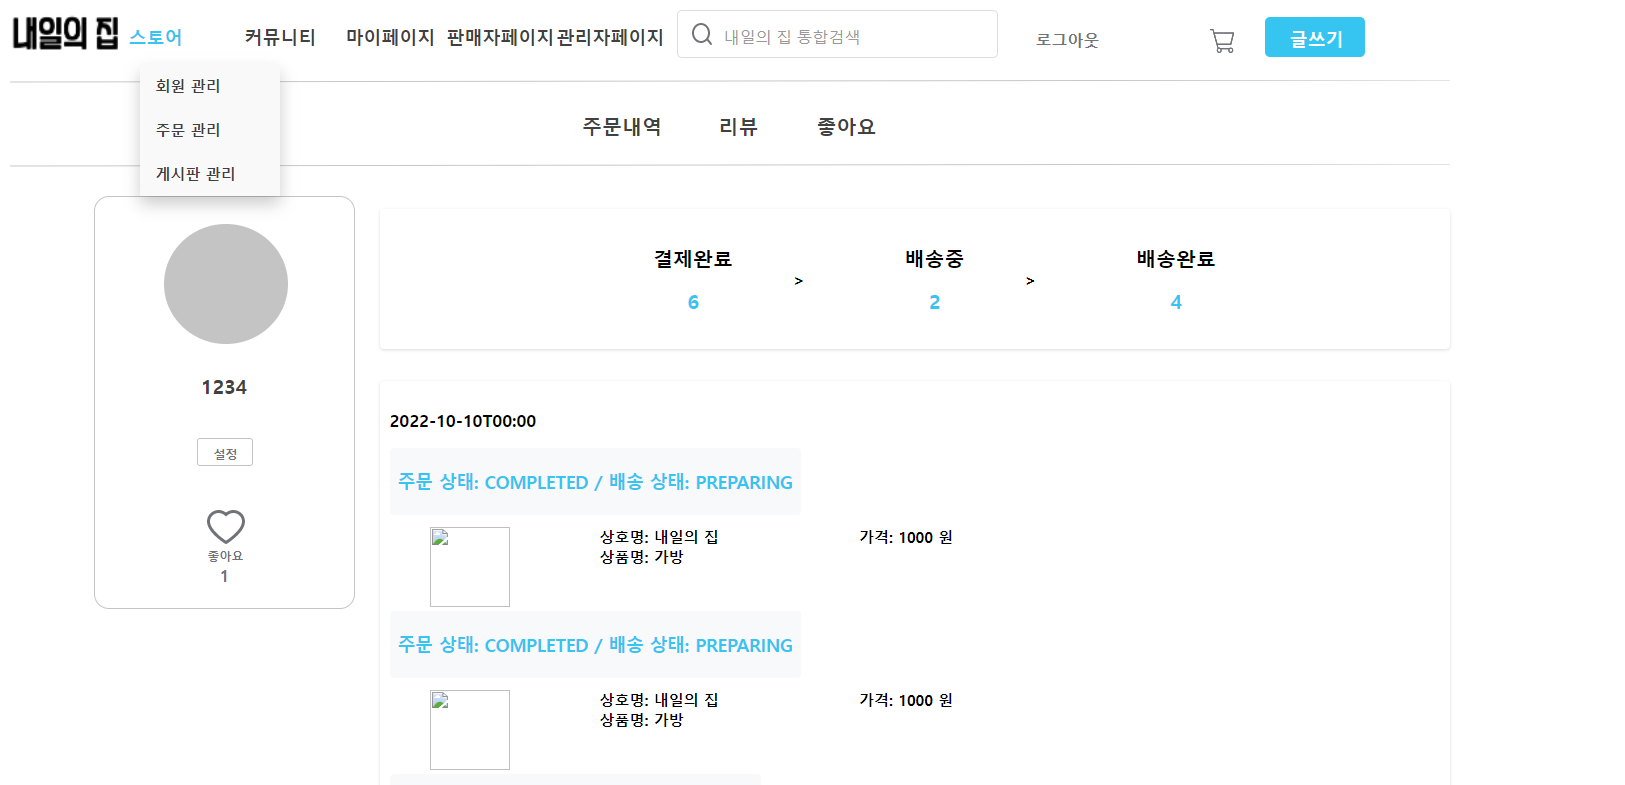
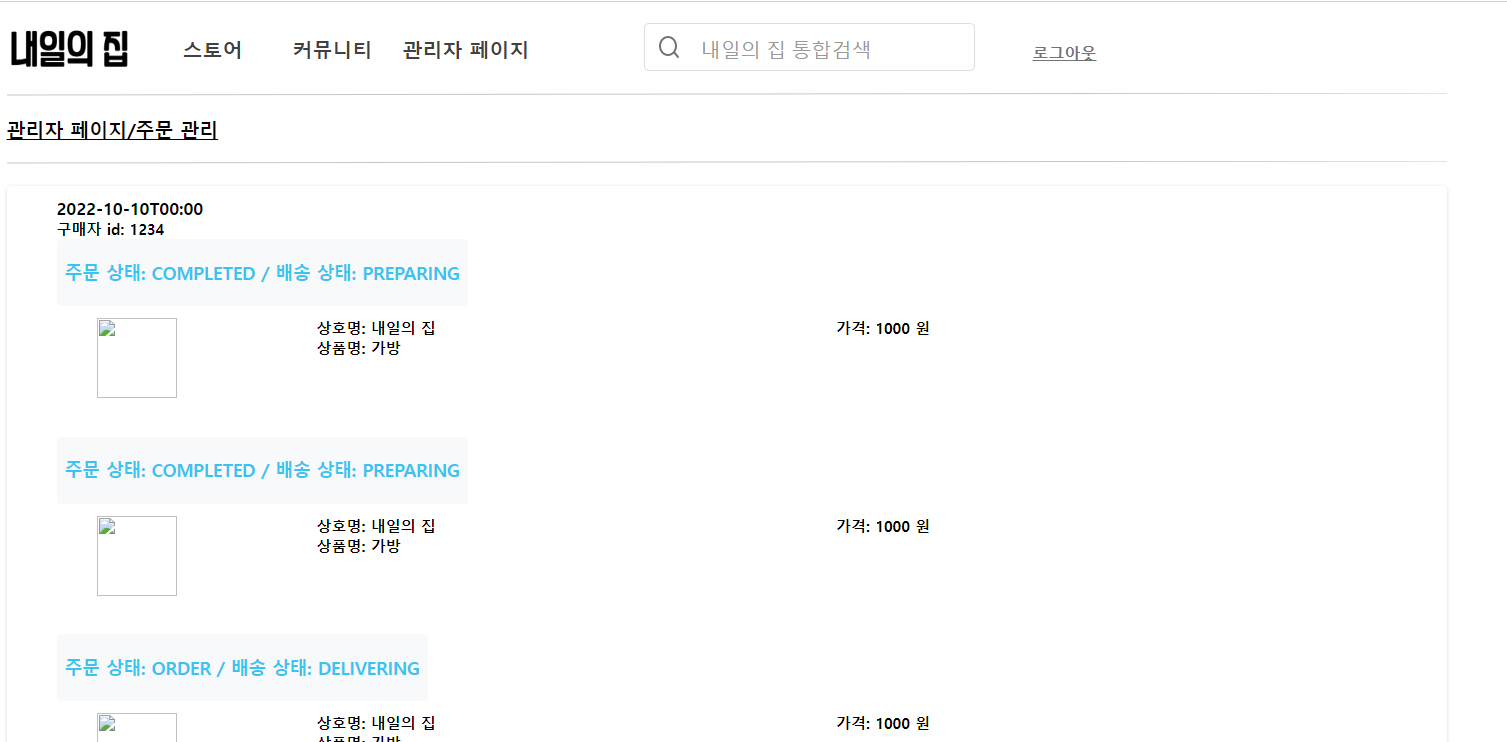
fix: modify admin_order

diff --git a/start/start/src/main/resources/templates/admin/show_orders.html b/start/start/src/main/resources/templates/admin/show_orders.html
@@ -137,31 +137,38 @@
                     <div id="orderData" th:each="order: ${orderList}" style="margin-top: 1%;">
                         <ul id="orderDate" th:text="${order.orderDate}"> 날짜</ul>
                         <ul th:text="|구매자 id: ${order.consumer.cId}|"> 구매자 id</ul>
-                        <ul id="orderStatus"
-                            th:text="|주문 상태: ${order.orderStatus} / 배송 상태: ${order.delivery.deliveryStatus}|"> 주문/ 배송상태
-                        </ul>
-                        <ul th:each="orderitem: ${order.orderItems}" style="margin-top: 2%;">
 
-                            <ul th:if="${orderitem.item.uploadFile == null}" style="float: left; margin-right: 10%;">
-                                <img id="uploadFile" src="http://localhost:8080/upload/default_img.png" width="80"
-                                     height="80">
+                        <ul th:each="orderitem: ${order.orderItems}"
+                            style="madding-top: 2%; display: inline-block; width:1000px; margin-bottom: 2%">
+
+                            <ul id="orderStatus">
+                                <h3 th:text="|주문 상태: ${orderitem.orderItemStatus} / 배송 상태: ${orderitem.delivery.deliveryStatus}|">
+                                    주문/ 배송상태 </h3>
                             </ul>
-                            <ul th:if="${orderitem.item.uploadFile != null}" style="float: left; margin-right: 10%;">
-                                <img id="uploadFile"
-                                     th:src="|http://localhost:8080/upload/${orderitem.item.uploadFile.uploadFileName}.png|"
-                                     width="80" height="80">
-                            </ul>
+                            <div>
+                                <ul th:if="${orderitem.item.uploadFile == null}"
+                                    style="float: left; margin-right: 10%;">
+                                    <img id="uploadFile" src="http://localhost:8080/upload/default_img.png" width="80"
+                                         height="80">
+                                </ul>
+                                <ul th:if="${orderitem.item.uploadFile != null}"
+                                    style="float: left; margin-right: 10%;">
+                                    <img id="uploadFile"
+                                         th:src="|http://localhost:8080/upload/${orderitem.item.uploadFile.uploadFileName}.png|"
+                                         width="80" height="80">
+                                </ul>
 
 
-                            <ul style="float: left; margin-right: 40%;">
-                                <p th:text="|상호명: ${orderitem.item.seller.storeName}|"> 상호명</p>
-                                <p th:text="|상품명: ${orderitem.item.name}|">
-                                    상품 이름</p>
-                            </ul>
-                            <ul style="margin-bottom: 7%;" ;>
-                                <p th:text="|가격: ${orderitem.orderPrice} 원|">가격</p>
-                                <!-- <p th:text="|주문 수량: ${orderitem.count}| 개"> 개수</p> -->
-                            </ul>
+                                <ul style="float: left; margin-right: 40%;">
+                                    <p th:text="|상호명: ${orderitem.item.seller.storeName}|"> 상호명</p>
+                                    <p th:text="|상품명: ${orderitem.item.name}|">
+                                        상품 이름</p>
+                                </ul>
+                                <ul style="margin-bottom: 7%;" ;>
+                                    <p th:text="|가격: ${orderitem.orderPrice} 원|">가격</p>
+                                    <!-- <p th:text="|주문 수량: ${orderitem.count}| 개"> 개수</p> -->
+                                </ul>
+                            </div>
                         </ul>
                     </div>
 

diff --git a/start/start/src/main/resources/static/css/fragments/nav.css b/start/start/src/main/resources/static/css/fragments/nav.css
@@ -14,10 +14,12 @@ th, td {
 
   #li_dropdown {
     float:left;
-    margin-right: 30px;
-    margin-left: 40px;
-    padding-right: 20px;
-    padding-left: 20px;
+    margin-right: 2px;
+    margin-left: 2px;
+  }
+
+  nav ul li {
+    display: inline-block;
   }
 
   .dropdown {
@@ -27,24 +29,24 @@ th, td {
     display: inline-block;
   }
     .dropdown-menu {
-      position: absolute;
+      position: relative;
       width:110px;
       height:31px;
-      left:50px;
-      top: 10px;
+      left:100px;
+      top: 18px;
       font-family:"Gothic A1 ", "Gothic A1", sans-serif;
       font-weight:900;
       font-style:normal;
       font-size:18px;
       text-align:center;
       color:#424142;
-      padding: 16px;
+      margin: 5px;
       cursor: pointer;
     }
 
   .dropdown-content {
     position: absolute;
-    left:90px;
+    left:110px;
     top:65px;
     background-color: #f9f9f9;
     min-width: 140px;

diff --git a/start/start/src/main/resources/templates/consumer/mypage/orders.html b/start/start/src/main/resources/templates/consumer/mypage/orders.html
@@ -54,7 +54,7 @@
             <div th:each="order: ${orderList}">
                 <div id="orderData" style="margin-top: 3%;">
                     <h3 id="orderDate" th:text="${order.orderDate}"> 날짜</h3>
-                    <div th:each="orderitem: ${order.orderItems}" style="madding-top: 2%; display: inline-block; width:1000px; margin-bottom: 2%";">
+                    <div th:each="orderitem: ${order.orderItems}" style="madding-top: 2%; display: inline-block; width:1000px; margin-bottom: 2%">
                         <ul id="orderStatus">
                             <h3 th:text="|주문 상태: ${orderitem.orderItemStatus} / 배송 상태: ${orderitem.delivery.deliveryStatus}|">
                                 주문/ 배송상태 </h3>

diff --git a/start/start/src/main/resources/static/css/admin/show_orders.css b/start/start/src/main/resources/static/css/admin/show_orders.css
@@ -7,9 +7,16 @@
   font-size:16px;
 }
 
-#orderStatus {
- color:#35C5F0;
-}
+ #orderStatus {
+   line-height: 24px;
+   margin-bottom: 12px;
+   padding: 4px 8px;
+   background-color: #F7F9FA;
+   display: inline-block;
+   border-radius: 4px;
+   font-weight: 700;
+   color: #35C5F0;
+  }
 
 #orderData {
   font-family:"Gothic A1 ", "Gothic A1", sans-serif;

diff --git a/start/start/src/main/resources/templates/fragments/nav.html b/start/start/src/main/resources/templates/fragments/nav.html
@@ -13,7 +13,7 @@
         </li>
 
         <li id="li_dropdown" class="dropdown">
-            <div class="dropdown-menu">커뮤니티</div>
+            <div class="dropdown-menu" style="width:80px;">커뮤니티</div>
             <div class="dropdown-content">
                 <a href="#">회원 관리</a>
                 <a href="#">주문 관리</a>

diff --git a/start/start/src/main/resources/static/css/fragments/header.css b/start/start/src/main/resources/static/css/fragments/header.css
@@ -30,7 +30,7 @@ body {
     position:absolute;
     left:0px;
     top:0px;
-    width:140px;
+    width:126px;
     height:60px;
     background:inherit;
     background-color:rgba(255, 255, 255, 0);

diff --git a/start/start/src/main/java/com/house/start/domain/Item.java b/start/start/src/main/java/com/house/start/domain/Item.java
@@ -17,7 +17,7 @@ public class Item {
     @Column(name = "item_id")
     private Long id;
 
-    @OneToMany(mappedBy = "item")
+    @OneToMany(mappedBy = "item", cascade = CascadeType.ALL, orphanRemoval = true)
     private List<Review> reviews = new ArrayList<>();
 
     @ManyToOne(cascade = CascadeType.ALL)
@@ -29,7 +29,7 @@ public class Item {
     private int stockQuantity; // 재고 수량
     private String info; // 상품 정보
 
-    @OneToOne( cascade = CascadeType.ALL)
+    @OneToOne(cascade = CascadeType.ALL)
     @JoinColumn(name = "uploadfile_id")
     private UploadFile uploadFile;
 

diff --git a/start/start/src/main/java/com/house/start/controller/Consumer/ConsumerMypageController.java b/start/start/src/main/java/com/house/start/controller/Consumer/ConsumerMypageController.java
@@ -128,6 +128,7 @@ public class ConsumerMypageController {
 
             // review 데이터
             List<Review> reviewList = reviewService.findReviewsByConsumer(consumer);
+            log.info("check-----------------"+reviewList.toString());
             model.addAttribute("reviewList", reviewList);
             return "consumer/mypage/reviews";
         } else {

diff --git a/start/start/src/main/java/com/house/start/domain/Consumer.java b/start/start/src/main/java/com/house/start/domain/Consumer.java
@@ -21,7 +21,7 @@ public class Consumer {
     @OneToMany(mappedBy = "consumer")
     private List<Order> orders = new ArrayList<>();
 
-    @OneToMany(mappedBy = "consumer")
+    @OneToMany(mappedBy = "consumer", cascade = CascadeType.ALL, orphanRemoval = true)
     private List<Review> reviews = new ArrayList<>();
 
     @OneToMany(mappedBy = "consumer")

diff --git a/start/start/src/main/java/com/house/start/domain/Review.java b/start/start/src/main/java/com/house/start/domain/Review.java
@@ -1,6 +1,7 @@
 package com.house.start.domain;
 
 import lombok.Getter;
+import lombok.NoArgsConstructor;
 import lombok.Setter;
 
 import javax.persistence.*;
@@ -8,6 +9,7 @@ import java.time.LocalDateTime;
 
 @Entity
 @Getter@Setter
+@NoArgsConstructor
 public class Review {
 
     @Id @GeneratedValue
